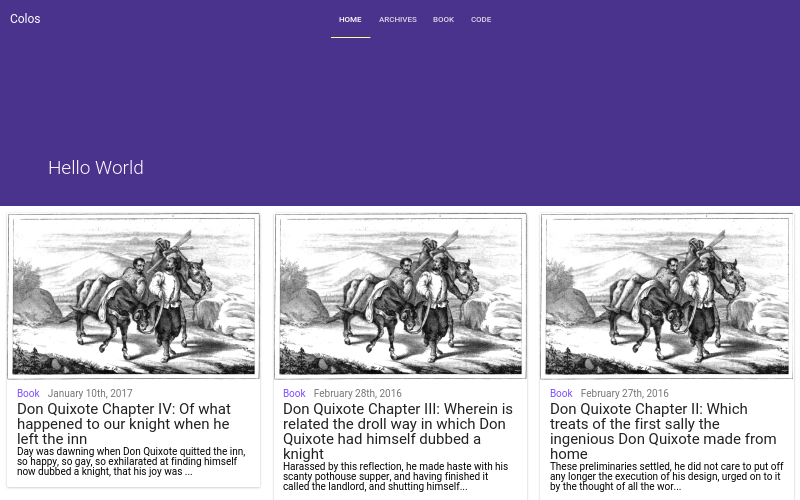
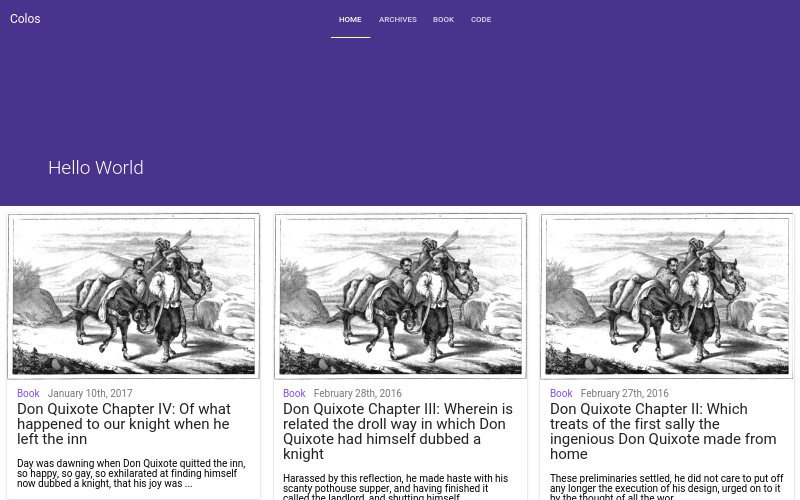
Separate card heading and content
Built from 717f536822db2305a26fa7e157de4a7cfe7e7c35.

Changed region(s): [[0.0, 0.9, 0.3125, 1.0], [0.3438, 0.93, 0.6562, 1.0], [0.6875, 0.93, 1.0, 1.0]]

diff --git a/source/css/main.css b/source/css/main.css
@@ -3,4 +3,4 @@ http://meyerweb.com/eric/tools/css/reset/
 v2.0 | 20110126
 License: none (public domain)
 */a,abbr,acronym,address,applet,article,aside,audio,b,big,blockquote,body,canvas,caption,center,cite,code,dd,del,details,dfn,div,dl,dt,em,embed,fieldset,figcaption,figure,footer,form,h1,h2,h3,h4,h5,h6,header,hgroup,html,i,iframe,img,ins,kbd,label,legend,li,mark,menu,nav,object,ol,output,p,pre,q,ruby,s,samp,section,small,span,strike,strong,sub,summary,sup,table,tbody,td,tfoot,th,thead,time,tr,tt,u,ul,var,video{margin:0;padding:0;border:0;font-size:100%;font:inherit;vertical-align:baseline}
-/* HTML5 display-role reset for older browsers */article,aside,details,figcaption,figure,footer,header,hgroup,menu,nav,section{display:block}body{line-height:1}ol,ul{list-style:none}blockquote,q{quotes:none}blockquote:after,blockquote:before,q:after,q:before{content:"";content:none}table{border-collapse:collapse;border-spacing:0}h1,h2,h3,h4,h5,h6{color:rgba(0,0,0,.9)}body{font-family:Roboto,sans-serif}.post-content{color:#212121;line-height:1.6;font-size:1.25em;font-weight:300}.post-content p{margin-bottom:1em}h1{font-size:2.2em}h2{font-size:2em}h3{font-size:1.8em}h4{font-size:1.6em}h5{font-size:1.4em}h6{font-size:1.2em}app-toolbar a:active,app-toolbar a:focus,app-toolbar a:hover{color:#d1c4e9}a{color:#7c4dff;text-decoration:none}a:active,a:focus,a:hover{color:#4527a0}.archives-wrap .archive-year{text-decoration:none;color:#212121}.archives-wrap .archive-year:active,.archives-wrap .archive-year:focus,.archives-wrap .archive-year:hover{color:#757575}.post-category{text-transform:capitalize}.post-date{color:#757575}paper-card h1{font-size:1.6em;padding-top:.2em}paper-card h1 a{color:#212121}.highlight,pre{font-family:Roboto Mono,monospace;font-size:.83em;line-height:1.2em}.highlight .line,pre .line{height:1.2em}app-drawer-layout>#contentContainer:not(.narrow){margin-left:0!important}app-drawer-layout>#contentContainer:not(.narrow)+app-drawer{visibility:hidden!important}app-drawer-layout>.narrow paper-tabs{display:none!important}app-header{color:#fff;background-color:#7c4dff}app-header #backgroundFrontLayer{background-position:50%}app-header #backgroundFrontLayer:before{content:"";display:block;position:absolute;top:0;bottom:0;left:0;right:0;background:rgba(25,25,25,.5)}app-toolbar.middle{height:10em}app-toolbar.bottom{height:4em}app-toolbar a{color:#fff;text-decoration:none}app-toolbar [main-title]{position:absolute;margin-left:2em;font-size:1.6em;font-weight:300}app-toolbar [condensed-title]{max-width:0}app-toolbar paper-tabs{height:100%!important}app-toolbar paper-tabs paper-tab{text-transform:uppercase}app-toolbar paper-tabs paper-tab[link] a{padding:0 1em}.narrow-element,h1,h2,h3,h4,h5,h6,header,p,table{max-width:960px;width:100%;margin:0 auto}.narrow-element.extra,h1.extra,h2.extra,h3.extra,h4.extra,h5.extra,h6.extra,header.extra,p.extra,table.extra{max-width:1380px}.narrow-element.extra *,h1.extra *,h2.extra *,h3.extra *,h4.extra *,h5.extra *,h6.extra *,header.extra *,p.extra *,table.extra *{max-width:100%}.highlight{padding:.4em 0}.highlight .gutter{width:1.3em;text-align:right}.highlight .code{padding-left:1.4em}.archives-wrap{padding:6em 0}.archives-wrap:nth-child(3n+0){background-color:#ede7f6}.archives-wrap:nth-child(3n+2){background-color:#d1c4e9}.archives-wrap h1{text-align:center;padding-bottom:.8em}colos-grid .post{padding:.7em}paper-card{width:100%}paper-card h1{text-align:left!important}paper-card .post-date{margin-left:.6em}.pagination a:first-child{float:left}.pagination a:last-child{float:right}.highlight{background:#fafafa;border:solid #e0e0e0;border-width:1px 0}.highlight,pre{color:#212121}.highlight .string,pre .string{color:#f9a825}.highlight .comment,pre .comment{color:#727272}.highlight .keyword,pre .keyword{color:#ad1457}.highlight .built_in,pre .built_in{color:#00838f}.highlight .number,.literal,pre .number{color:#4527a0}.highlight.bash .meta,.highlight.bash .shebang,pre.bash .meta,pre.bash .shebang{color:#727272}.highlight.bash .variable,pre.bash .variable{color:#b6b6b6}.highlight.bash .title,pre.bash .title{color:#558b2f}.gutter pre{color:#757575}
+/* HTML5 display-role reset for older browsers */article,aside,details,figcaption,figure,footer,header,hgroup,menu,nav,section{display:block}body{line-height:1}ol,ul{list-style:none}blockquote,q{quotes:none}blockquote:after,blockquote:before,q:after,q:before{content:"";content:none}table{border-collapse:collapse;border-spacing:0}h1,h2,h3,h4,h5,h6{color:rgba(0,0,0,.9)}body{font-family:Roboto,sans-serif}.post-content{color:#212121;line-height:1.6;font-size:1.25em;font-weight:300}.post-content p{margin-bottom:1em}h1{font-size:2.2em}h2{font-size:2em}h3{font-size:1.8em}h4{font-size:1.6em}h5{font-size:1.4em}h6{font-size:1.2em}app-toolbar a:active,app-toolbar a:focus,app-toolbar a:hover{color:#d1c4e9}a{color:#7c4dff;text-decoration:none}a:active,a:focus,a:hover{color:#4527a0}.archives-wrap .archive-year{text-decoration:none;color:#212121}.archives-wrap .archive-year:active,.archives-wrap .archive-year:focus,.archives-wrap .archive-year:hover{color:#757575}.post-category{text-transform:capitalize}.post-date{color:#757575}paper-card h1{font-size:1.6em;padding-top:.2em}paper-card h1 a{color:#212121}.highlight,pre{font-family:Roboto Mono,monospace;font-size:.83em;line-height:1.2em}.highlight .line,pre .line{height:1.2em}app-drawer-layout>#contentContainer:not(.narrow){margin-left:0!important}app-drawer-layout>#contentContainer:not(.narrow)+app-drawer{visibility:hidden!important}app-drawer-layout>.narrow paper-tabs{display:none!important}app-header{color:#fff;background-color:#7c4dff}app-header #backgroundFrontLayer{background-position:50%}app-header #backgroundFrontLayer:before{content:"";display:block;position:absolute;top:0;bottom:0;left:0;right:0;background:rgba(25,25,25,.5)}app-toolbar.middle{height:10em}app-toolbar.bottom{height:4em}app-toolbar a{color:#fff;text-decoration:none}app-toolbar [main-title]{position:absolute;margin-left:2em;font-size:1.6em;font-weight:300}app-toolbar [condensed-title]{max-width:0}app-toolbar paper-tabs{height:100%!important}app-toolbar paper-tabs paper-tab{text-transform:uppercase}app-toolbar paper-tabs paper-tab[link] a{padding:0 1em}.narrow-element,h1,h2,h3,h4,h5,h6,header,p,table{max-width:960px;width:100%;margin:0 auto}.narrow-element.extra,h1.extra,h2.extra,h3.extra,h4.extra,h5.extra,h6.extra,header.extra,p.extra,table.extra{max-width:1380px}.narrow-element.extra *,h1.extra *,h2.extra *,h3.extra *,h4.extra *,h5.extra *,h6.extra *,header.extra *,p.extra *,table.extra *{max-width:100%}.highlight{padding:.4em 0}.highlight .gutter{width:1.3em;text-align:right}.highlight .code{padding-left:1.4em}.archives-wrap{padding:6em 0}.archives-wrap:nth-child(3n+0){background-color:#ede7f6}.archives-wrap:nth-child(3n+2){background-color:#d1c4e9}.archives-wrap h1{text-align:center;padding-bottom:.8em}colos-grid .post{padding:.7em}paper-card{width:100%}paper-card h1{text-align:left!important;margin-bottom:.8em}paper-card .post-date{margin-left:.6em}.pagination a:first-child{float:left}.pagination a:last-child{float:right}.highlight{background:#fafafa;border:solid #e0e0e0;border-width:1px 0}.highlight,pre{color:#212121}.highlight .string,pre .string{color:#f9a825}.highlight .comment,pre .comment{color:#727272}.highlight .keyword,pre .keyword{color:#ad1457}.highlight .built_in,pre .built_in{color:#00838f}.highlight .number,.literal,pre .number{color:#4527a0}.highlight.bash .meta,.highlight.bash .shebang,pre.bash .meta,pre.bash .shebang{color:#727272}.highlight.bash .variable,pre.bash .variable{color:#b6b6b6}.highlight.bash .title,pre.bash .title{color:#558b2f}.gutter pre{color:#757575}

diff --git a/source/lib/web-animations-js/History.md b/source/lib/web-animations-js/History.md
@@ -1,3 +1,7 @@
+### 2.2.5 - *April 17 2017*
+
+  *  Removed erroneously added *.gz files from release.
+
 ### 2.2.4 - *April 14 2017*
 
   *  [Reverted adding 'use strict' to source files.](https://github.com/web-animations/web-animations-next/pull/124)
